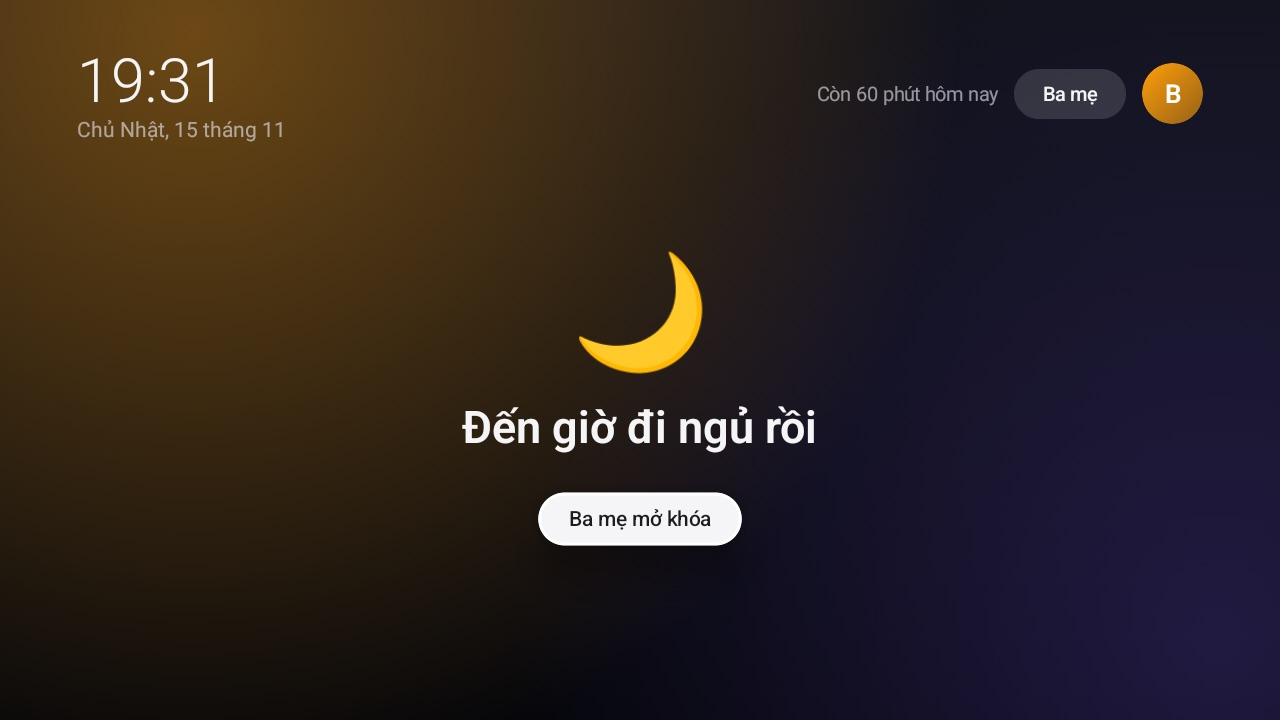
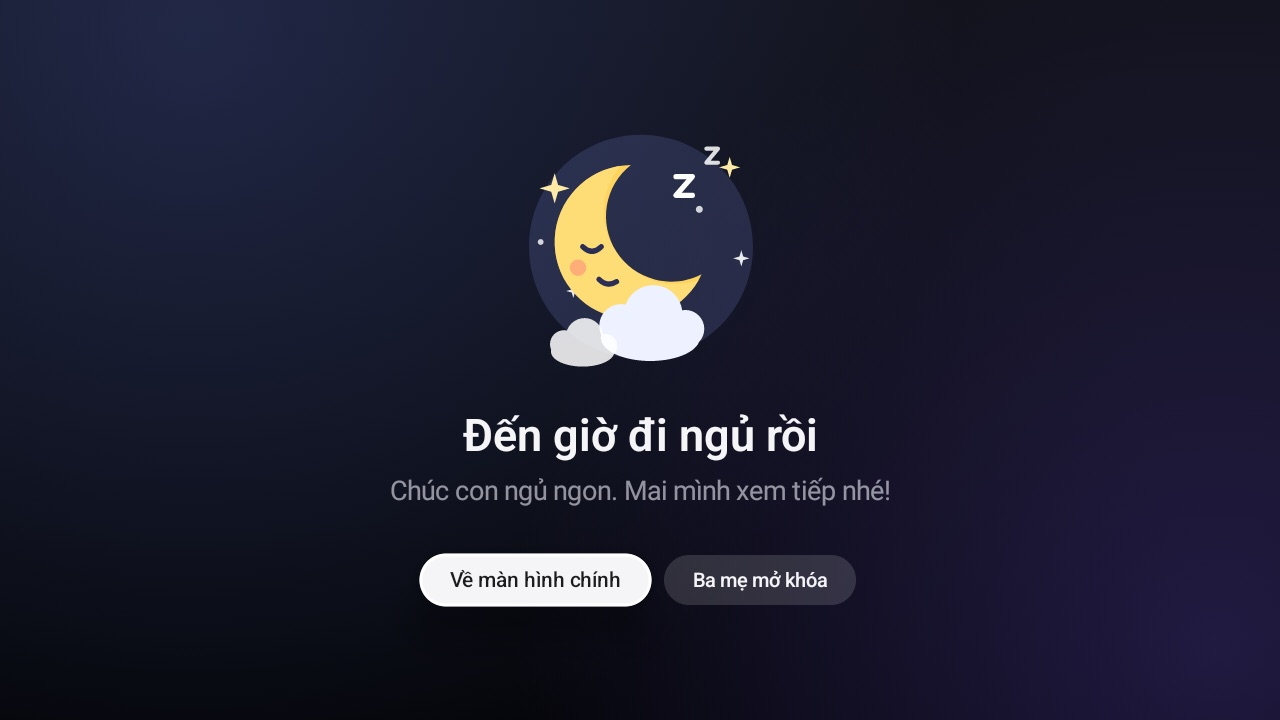
feat: add lock screen illustrations and admin page QR code
Replace the emoji on the kid-facing lock screens with vector
illustrations for bedtime, daily quota, pause and locked apps.

Show a QR code of the web admin address in parent mode and on a
profile with no allowed apps, so parents can scan it from the TV.

diff --git a/app/src/main/java/com/kidstv/launcher/LauncherActivity.kt b/app/src/main/java/com/kidstv/launcher/LauncherActivity.kt
@@ -86,6 +86,9 @@ class LauncherActivity : ComponentActivity() {
         if (!Store.hasPin()) startActivity(LockActivity.intent(this, LockActivity.KIND_PARENT, ""))
     }
 
+    /** Address of the parents' web page, or null while the box has no LAN address. */
+    private fun adminUrl(): String? = Apps.lanAddress()?.let { "http://$it:${WebServer.PORT}" }
+
     private fun askParent() = startActivity(LockActivity.intent(this, LockActivity.KIND_PARENT, ""))
 
     @Composable
@@ -141,11 +144,12 @@ class LauncherActivity : ComponentActivity() {
             Spacer(Modifier.weight(1f))
             Row(verticalAlignment = Alignment.CenterVertically, horizontalArrangement = Arrangement.spacedBy(12.dp)) {
                 if (parent) {
-                    val address = remember { Apps.lanAddress() }
-                    Text(
-                        "Quản lý trên điện thoại: http://${address ?: "địa-chỉ-box"}:${WebServer.PORT}",
-                        color = TextSecondary, fontSize = 14.sp,
-                    )
+                    val url = remember { adminUrl() }
+                    if (url != null) QrCode(url, 92.dp)
+                    Column {
+                        Text("Quét mã để quản lý trên điện thoại", color = TextPrimary, fontSize = 15.sp)
+                        Text(url ?: "TV chưa kết nối mạng", color = TextSecondary, fontSize = 14.sp)
+                    }
                     if (!GuardService.running) Text("⚠ Dịch vụ khóa chưa bật", color = Color(0xFFFFD60A), fontSize = 14.sp)
                     Pill("Khóa lại", onClick = { Store.endParent() })
                 } else {
@@ -172,11 +176,23 @@ class LauncherActivity : ComponentActivity() {
             else all.filter { it.pkg in (profile?.allowed ?: emptySet()) }
         }
         if (shown.isEmpty()) {
-            Box(Modifier.fillMaxSize(), contentAlignment = Alignment.Center) {
+            if (all.isEmpty()) return // still loading
+            val url = remember { adminUrl() }
+            Column(
+                Modifier.fillMaxSize().padding(bottom = 60.dp),
+                horizontalAlignment = Alignment.CenterHorizontally,
+                verticalArrangement = Arrangement.Center,
+            ) {
                 Text(
-                    if (all.isEmpty()) "" else "Chưa có ứng dụng nào được phép. Ba mẹ thêm trên điện thoại nhé.",
+                    "Chưa có ứng dụng nào được phép. Ba mẹ thêm trên điện thoại nhé.",
                     color = TextSecondary, fontSize = 20.sp,
                 )
+                if (url != null) {
+                    Spacer(Modifier.height(26.dp))
+                    QrCode(url, 190.dp)
+                    Spacer(Modifier.height(14.dp))
+                    Text(url, color = TextSecondary, fontSize = 16.sp)
+                }
             }
             return
         }
@@ -257,15 +273,8 @@ class LauncherActivity : ComponentActivity() {
             horizontalAlignment = Alignment.CenterHorizontally,
             verticalArrangement = Arrangement.Center,
         ) {
-            Text(
-                when (lock.kind) {
-                    "bedtime" -> "🌙"
-                    "quota" -> "⏰"
-                    else -> "⏸"
-                },
-                fontSize = 84.sp,
-            )
-            Spacer(Modifier.height(18.dp))
+            LockArt(lock.kind, 210.dp)
+            Spacer(Modifier.height(10.dp))
             Text(lock.reason, color = TextPrimary, fontSize = 34.sp, fontWeight = FontWeight.SemiBold)
             Spacer(Modifier.height(30.dp))
             Pill(

diff --git a/app/src/main/java/com/kidstv/launcher/Ui.kt b/app/src/main/java/com/kidstv/launcher/Ui.kt
@@ -2,6 +2,8 @@ package com.kidstv.launcher
 
 import androidx.compose.animation.core.animateFloatAsState
 import androidx.compose.animation.core.spring
+import androidx.compose.foundation.Canvas
+import androidx.compose.foundation.Image
 import androidx.compose.foundation.background
 import androidx.compose.foundation.border
 import androidx.compose.foundation.clickable
@@ -33,6 +35,7 @@ import androidx.compose.ui.focus.FocusRequester
 import androidx.compose.ui.focus.focusRequester
 import androidx.compose.ui.focus.onFocusChanged
 import androidx.compose.ui.geometry.Offset
+import androidx.compose.ui.geometry.Size
 import androidx.compose.ui.graphics.Brush
 import androidx.compose.ui.graphics.Color
 import androidx.compose.ui.graphics.Shape
@@ -43,11 +46,15 @@ import androidx.compose.ui.input.key.key
 import androidx.compose.ui.input.key.nativeKeyCode
 import androidx.compose.ui.input.key.onPreviewKeyEvent
 import androidx.compose.ui.input.key.type
+import androidx.compose.ui.res.painterResource
 import androidx.compose.ui.text.font.FontWeight
 import androidx.compose.ui.unit.Dp
 import androidx.compose.ui.unit.dp
 import androidx.compose.ui.unit.sp
 import androidx.compose.ui.zIndex
+import com.google.zxing.BarcodeFormat
+import com.google.zxing.EncodeHintType
+import com.google.zxing.qrcode.QRCodeWriter
 
 val TextPrimary = Color(0xFFF5F5F7)
 val TextSecondary = Color(0x99EBEBF5)
@@ -157,6 +164,34 @@ fun Avatar(name: String, color: Color, size: Dp) {
             fontSize = (size.value * 0.42f).sp,
             fontWeight = FontWeight.SemiBold,
         )
+    }
+}
+
+/** The illustration shown to a child for each kind of lock. */
+@Composable
+fun LockArt(kind: String, size: Dp) {
+    val art = when (kind) {
+        "bedtime" -> R.drawable.ill_bedtime
+        "quota" -> R.drawable.ill_quota
+        "paused" -> R.drawable.ill_paused
+        else -> R.drawable.ill_locked
+    }
+    Image(painterResource(art), contentDescription = null, modifier = Modifier.size(size))
+}
+
+/** A QR code for [text], black on a white card so a phone camera can read it off the TV. */
+@Composable
+fun QrCode(text: String, size: Dp) {
+    val matrix = remember(text) {
+        // Asking for 0x0 yields one cell per module plus the quiet zone.
+        runCatching { QRCodeWriter().encode(text, BarcodeFormat.QR_CODE, 0, 0, mapOf(EncodeHintType.MARGIN to 3)) }.getOrNull()
+    } ?: return
+    Canvas(Modifier.size(size).clip(RoundedCornerShape(10.dp)).background(Color.White)) {
+        val cell = this.size.width / matrix.width
+        for (y in 0 until matrix.height) for (x in 0 until matrix.width) {
+            // Cells overlap by a hair so rounding never leaves light seams between modules.
+            if (matrix[x, y]) drawRect(Color.Black, Offset(x * cell, y * cell), Size(cell + 0.5f, cell + 0.5f))
+        }
     }
 }
 

diff --git a/app/src/main/java/com/kidstv/launcher/LockActivity.kt b/app/src/main/java/com/kidstv/launcher/LockActivity.kt
@@ -127,15 +127,9 @@ class LockActivity : ComponentActivity() {
     private fun Info(onUnlock: () -> Unit) {
         val focus = remember { FocusRequester() }
         LaunchedEffect(Unit) { runCatching { focus.requestFocus() } }
-        val symbol = when (kind) {
-            "bedtime" -> "🌙"
-            "quota" -> "⏰"
-            "paused" -> "⏸"
-            else -> "🔒"
-        }
         Column(horizontalAlignment = Alignment.CenterHorizontally) {
-            Text(symbol, fontSize = 84.sp)
-            Spacer(Modifier.height(20.dp))
+            LockArt(kind, 210.dp)
+            Spacer(Modifier.height(10.dp))
             Text(reason, color = TextPrimary, fontSize = 34.sp, fontWeight = FontWeight.SemiBold)
             Spacer(Modifier.height(10.dp))
             Text(

diff --git a/DEVELOPMENT.md b/DEVELOPMENT.md
@@ -12,7 +12,7 @@ Compose, không có backend. minSdk 28, targetSdk 34.
 |---|---|---|
 | Màn hình chính | `LauncherActivity.kt` | Lưới ứng dụng, chọn hồ sơ, trạng thái khóa theo giờ |
 | Màn hình khóa | `LockActivity.kt` | Thông báo lý do khóa, nhập và tạo mã PIN, cho thêm giờ |
-| Thành phần giao diện | `Ui.kt` | Nền, thẻ có hiệu ứng focus, nút, bàn phím số |
+| Thành phần giao diện | `Ui.kt` | Nền, thẻ có hiệu ứng focus, nút, bàn phím số, hình minh họa màn hình khóa, mã QR (ZXing) |
 | Dịch vụ khóa | `GuardService.kt` | Accessibility service: theo dõi ứng dụng phía trước, chặn, tính giờ, hẹn giờ tắt, đánh thức |
 | Chính sách | `Store.kt` | Hồ sơ, mã PIN, phiên đăng nhập, thời gian đã xem, hàm quyết định `decide()` |
 | Danh sách ứng dụng | `Apps.kt` | Liệt kê và mở ứng dụng, lấy banner và icon |

diff --git a/README.md b/README.md
@@ -89,8 +89,9 @@ rồi nhập lại lần nữa. Đừng để các bé thấy mã này.
 
 **5. Mở trang quản lý trên điện thoại**
 
-Mở trình duyệt trên điện thoại và vào `http://<IP>:8765`, rồi nhập mã PIN. Trên iPhone,
-bấm Chia sẻ → "Thêm vào MH chính" để có biểu tượng như một ứng dụng.
+Trên TV, chọn nút "Ba mẹ" và nhập mã PIN: góc trên màn hình hiện một mã QR. Dùng camera
+điện thoại quét mã đó (hoặc tự gõ `http://<IP>:8765` vào trình duyệt), rồi nhập mã PIN.
+Trên iPhone, bấm Chia sẻ → "Thêm vào MH chính" để có biểu tượng như một ứng dụng.
 
 **6. Thiết lập cho từng bé**
 
